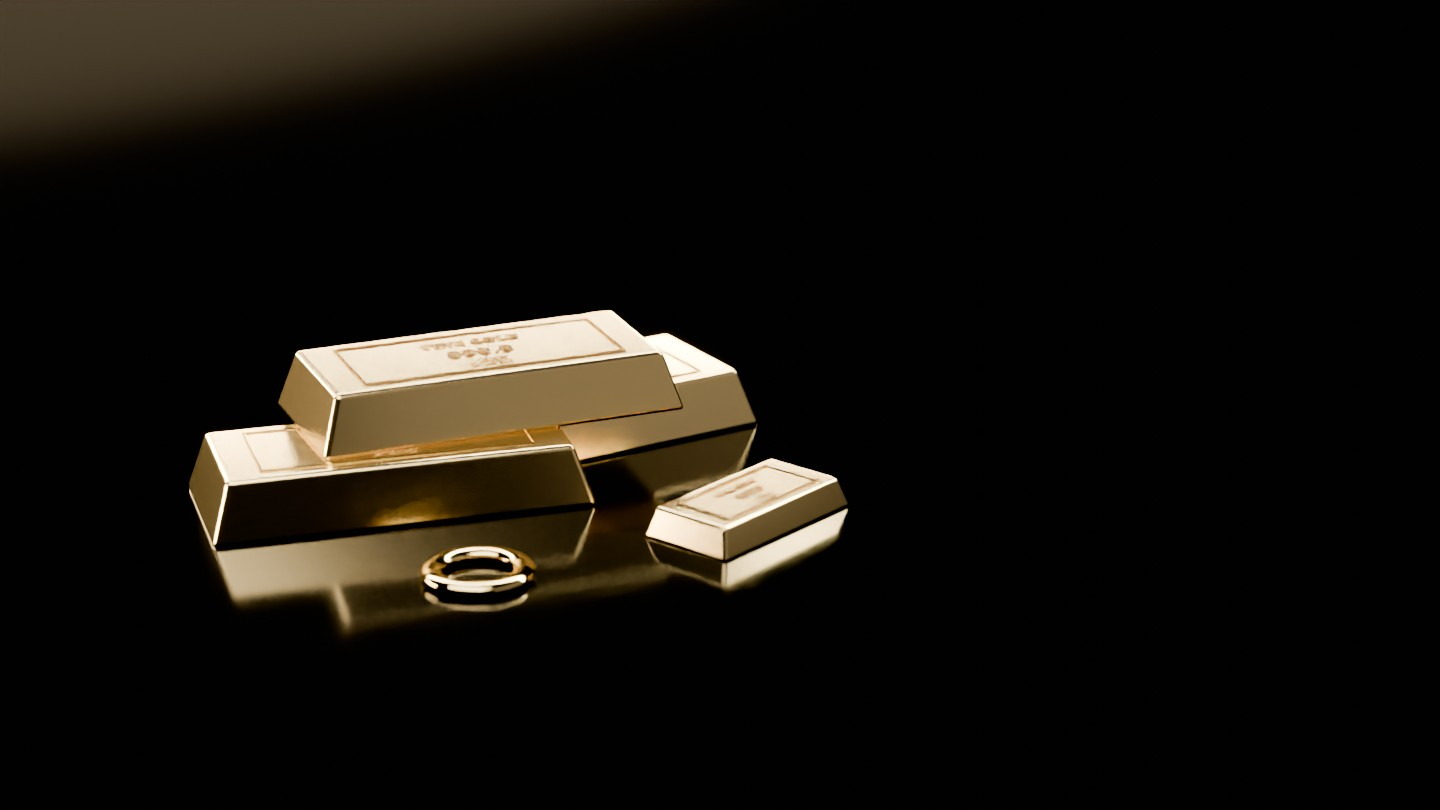
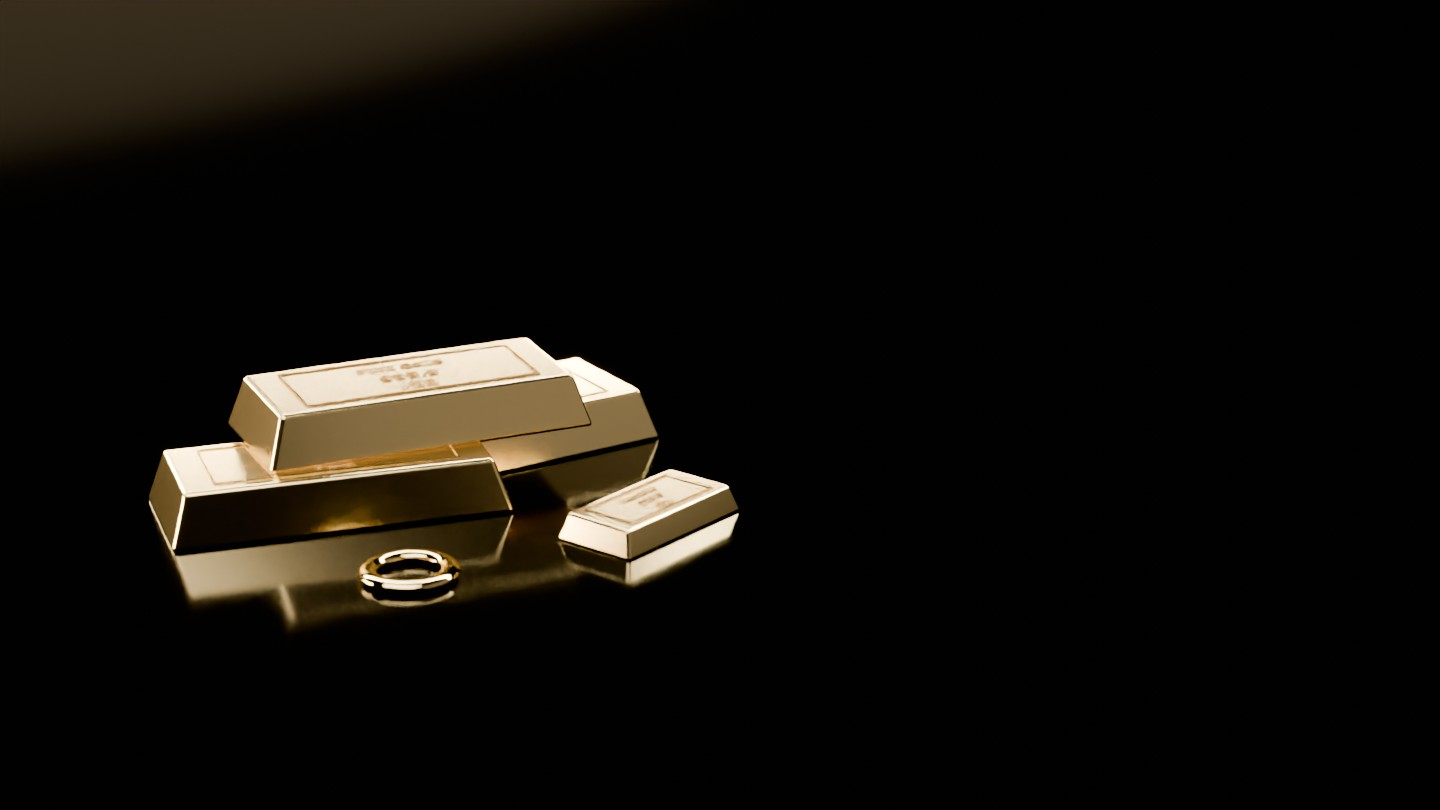
4.69: modern UI library (QFluentWidgets) across the system + cinematic login gate
- ui/kit.py: one entry point for Fluent components (buttons, fields,
  spin/date boxes, combo popups, tables, dialogs, notifications, busy tip)
  with RTL fixes and an automatic classic Qt fallback when the library is
  absent (old exe) or switched off.
- 70 screens use kit components; shared helpers (make_table, messages,
  posted/confirm_post, run_bg, toast, table context menu) go through kit.
- ui/widgets/ledger_view.py: model-based accounting table (QTableView +
  proxy): numeric sort, instant Arabic filter, live totals row; used by
  the transaction log (also fixes deleting manual journal entries there).
- Build: requirements, MAKE_EXE/START bundle PyQt-Fluent-Widgets 1.11.3.
- Gate 4.68: final rendered 192-frame gold loop and poster; the stage now
  announces the gate's first paint.
- verify_all resolves methods inherited from library classes.

Claude-Session: https://claude.ai/code/session_014SDD1eA95bsASAznsWqXPL

Changed region(s): [[0.0938, 0.3704, 0.5938, 0.8025]]

diff --git a/ui/kit.py b/ui/kit.py
@@ -182,26 +182,29 @@ def _field_height(widget, extra=14):
 #  المظهر: لون الذهب والخط والوضع الليلي
 # ══════════════════════════════════════════════════════════════════
 
-# نصوص المكتبة التي لا يحملها ملف ترجمتها العربي: أيام التقويم وأشهره
-# وأزرار الحوار وقائمة التحرير. تُترجم لأصناف المكتبة وحدها (سياقٌ لا
-# يبدأ بـQ) فلا تمسّ نصوص Qt نفسها.
-AR_STRINGS = {
+# أيام التقويم وأشهره بالعربية — لا يحملها ملف ترجمة المكتبة العربي.
+# تُكتب على عناصر التقويم مباشرةً بعد إنشائه (`_arabize_calendar`):
+# مترجمٌ بايثوني (QTranslator مشتقّ) يستدعيه Qt من داخل بنائه للنوافذ
+# كان يُسقط البرنامج في بعض الشاشات — فلا مترجم بايثوني إطلاقاً.
+AR_CALENDAR = {
     "Mo": "ن", "Tu": "ث", "We": "ر", "Th": "خ", "Fr": "ج", "Sa": "س",
     "Su": "ح",
     "Jan": "يناير", "Feb": "فبراير", "Mar": "مارس", "Apr": "أبريل",
     "May": "مايو", "Jun": "يونيو", "Jul": "يوليو", "Aug": "أغسطس",
     "Sep": "سبتمبر", "Oct": "أكتوبر", "Nov": "نوفمبر", "Dec": "ديسمبر",
-    "OK": "موافق", "Cancel": "إلغاء", "Cut": "قص", "Copy": "نسخ",
-    "Paste": "لصق", "Select all": "تحديد الكل", "Undo": "تراجع",
-    "Redo": "إعادة", "Clear": "مسح",
 }
 
 
-class _ArabicFluent(QtCore.QTranslator):
-    def translate(self, context, source, disambiguation=None, n=-1):
-        if context and not str(context).startswith("Q"):
-            return AR_STRINGS.get(source, "")
-        return ""
+def _arabize_calendar(view):
+    """أيام الأسبوع وأسماء الأشهر في تقويم Fluent بالعربية."""
+    for lb in view.findChildren(QtWidgets.QLabel, "weekDayLabel"):
+        lb.setText(AR_CALENDAR.get(lb.text(), lb.text()))
+    for lw in view.findChildren(QtWidgets.QListWidget):
+        for i in range(lw.count()):
+            it = lw.item(i)
+            ar = AR_CALENDAR.get(it.text())
+            if ar:
+                it.setText(ar)
 
 
 # لون الفعل في Fluent: الوضع الفاتح يأخذه كما هو، والليلي يشتقّ منه
@@ -239,9 +242,7 @@ def apply(app, name="light", scale=1.0):
             tr = QtCore.QTranslator(app)
             if tr.load(":/qfluentwidgets/i18n/qfluentwidgets.ar_AR.qm"):
                 app.installTranslator(tr)
-            extra = _ArabicFluent(app)
-            app.installTranslator(extra)        # يُسأل أولاً (آخر مُركَّب)
-            _STATE["translator"] = (tr, extra)
+                _STATE["translator"] = tr
         except Exception:
             pass
         app.setLayoutDirection(direction)
@@ -651,6 +652,7 @@ if ACTIVE:
                 # أسماء الأشهر من لغة الأداة: عربية (والأرقام تبقى لاتينية)
                 view.setLocale(QtCore.QLocale(QtCore.QLocale.Arabic,
                                               QtCore.QLocale.SaudiArabia))
+                _arabize_calendar(view)
                 view.setDate(self.date())
                 view.dateChanged.connect(self.setDate)
                 pos = self.mapToGlobal(QtCore.QPoint(0, self.height() + 2))

diff --git a/tools/smoke_flow.py b/tools/smoke_flow.py
@@ -7928,17 +7928,21 @@ def main():
         _loop100 = _cs100.asset(_cs100.LOOP)
         _post100 = _cs100.asset(_cs100.POSTER)
         _rd100 = _QG100.QImageReader(str(_loop100)) if _loop100 else None
+        _n100 = _rd100.imageCount() if _rd100 else 0
+        # مدّة الإطار في WebP تُعرف بعد قراءة أول إطار — قبلها يعيد Qt صفراً
+        _f0_100 = _rd100.read() if _rd100 else None
+        _dl100 = _rd100.nextImageDelay() if _rd100 else 0
         check("المقطع الذهبي: WebP متحرّك حلقةً لا تنتهي، خفيفٌ أقلّ من 6 م.ب",
               _rd100 is not None and _rd100.supportsAnimation()
-              and _rd100.imageCount() >= 150
-              and 38 <= _rd100.nextImageDelay() <= 46
+              and _n100 >= 150 and 38 <= _dl100 <= 46
+              and _rd100.loopCount() in (-1, 0)
               and _loop100.stat().st_size < 6 * 1024 * 1024,
-              str((_rd100.imageCount() if _rd100 else None,
+              str((_n100, _dl100,
                    _loop100.stat().st_size if _loop100 else None)))
         _p100 = _QG100.QImage(str(_post100)) if _post100 else _QG100.QImage()
         check("والبديل الساكن صورةٌ من المشهد نفسه بمقاسه",
-              not _p100.isNull() and _rd100 is not None
-              and _p100.size() == _rd100.size())
+              not _p100.isNull() and _f0_100 is not None
+              and _p100.size() == _f0_100.size())
         _old100 = os.environ.get("GOLD_ERP_REDUCE_MOTION")
         os.environ["GOLD_ERP_REDUCE_MOTION"] = "1"
         _st100 = _cs100.CinemaStage()

diff --git a/core/config.py b/core/config.py
@@ -189,7 +189,7 @@ ICONS_DIR = (BUNDLE_DIR / "assets" / "icons"
              else BASE_DIR / "assets" / "icons")
 
 APP_NAME = "نظام محاسبة مصنع الذهب — عيار 18"
-APP_VERSION = "4.67.0"
+APP_VERSION = "4.69.0"
 # بصمة تتغيّر مع كل بناء — تكشف تشغيل نسخة قديمة فوراً
 BUILD_STAMP = "2026-09-28"
 
